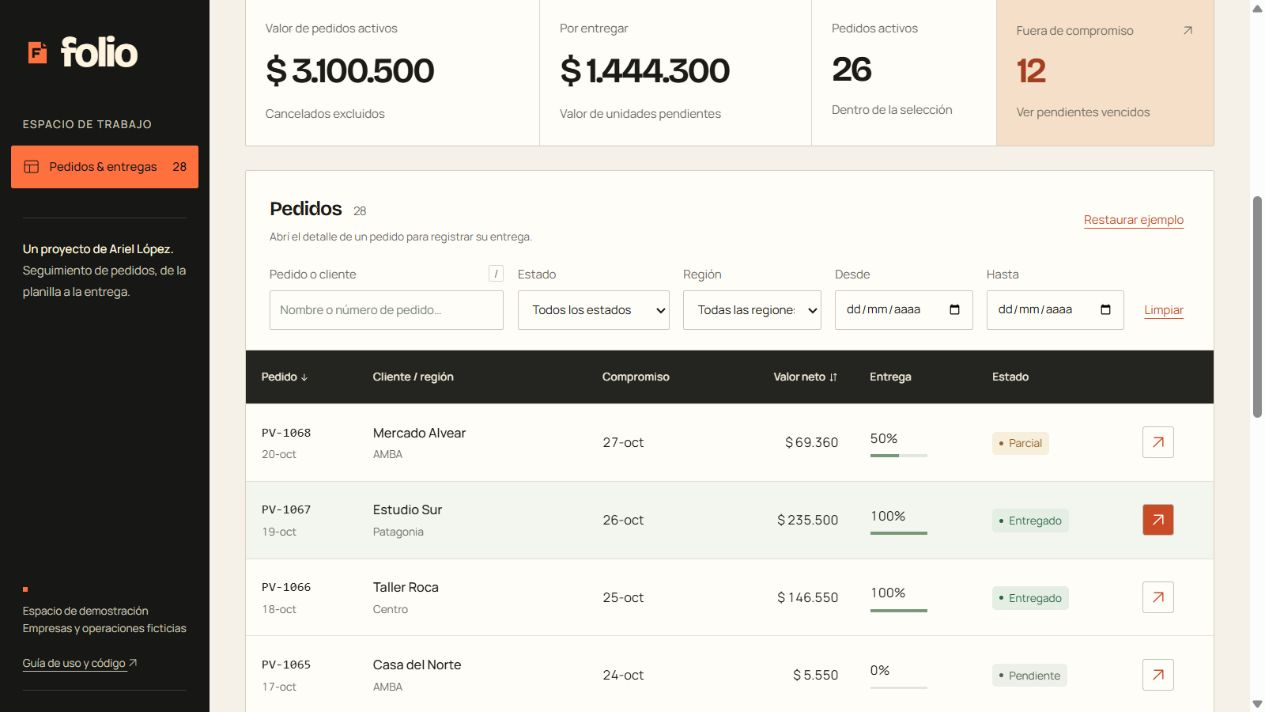
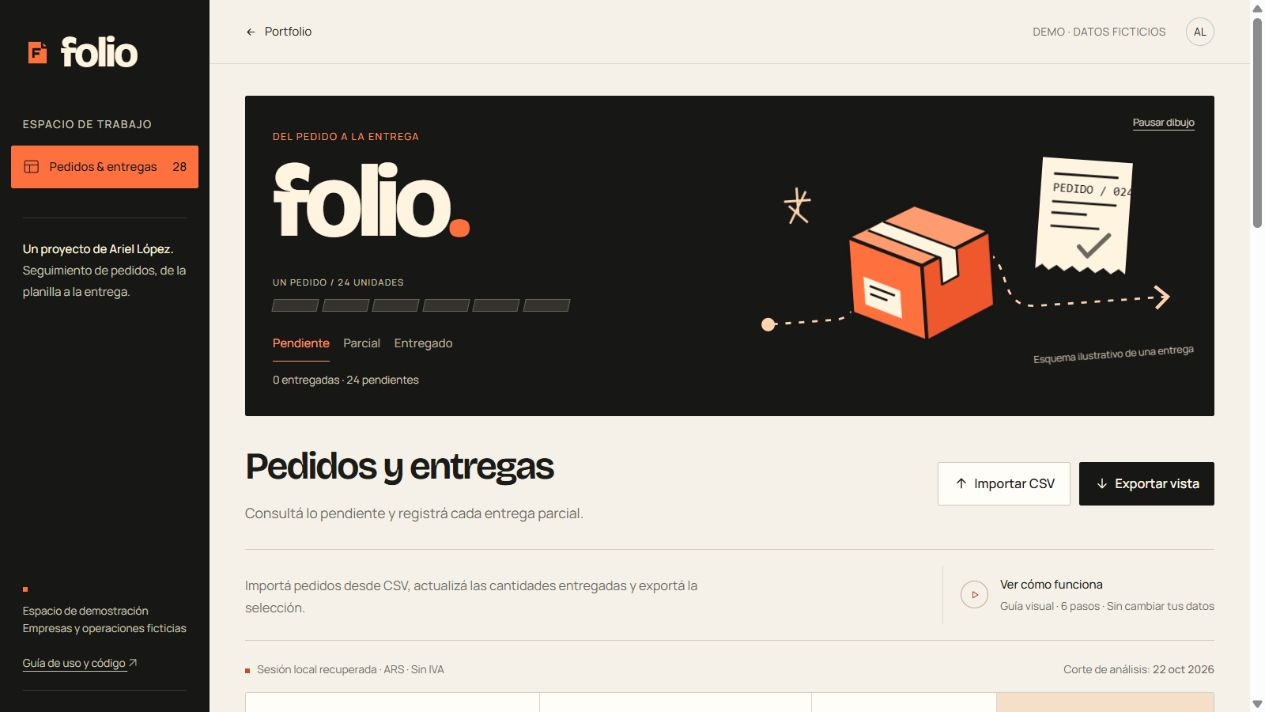
Add an interactive branded example to the app introduction

diff --git a/index.html b/index.html
@@ -19,11 +19,13 @@
     <link rel="stylesheet" href="style.css?v=20261101-type-1" />
     <link rel="stylesheet" href="tutorial.css?v=20261101-type-1" />
     <link rel="stylesheet" href="identity.css?v=20261101-type-1" />
-    <script type="module" src="src/app.js?v=20261101-identities-1"></script>
+    <script type="module" src="src/app.js?v=20261101-assembly-1"></script>
     <script type="module" src="src/tutorial.js?v=20261101-type-1"></script>
-    <link rel="stylesheet" href="direction.css?v=20261101-identities-1" />
+    <link rel="stylesheet" href="direction.css?v=20261101-assembly-1" />
     <link rel="stylesheet" href="video.css?v=20261101-type-1" />
-    <script type="module" src="src/brand-motion.js?v=20261101-identities-1"></script>
+    <script type="module" src="src/brand-motion.js?v=20261101-assembly-1"></script>
+    <link rel="stylesheet" href="brand-lab.css?v=20261101-assembly-1" />
+    <script type="module" src="src/brand-lab.js?v=20261101-assembly-1"></script>
   </head>
   <body>
     <a class="skip" href="#main">Saltar al contenido</a>
@@ -100,6 +102,18 @@
             <span class="brand-kicker">DEL PEDIDO A LA ENTREGA</span>
             <div class="brand-word" aria-hidden="true">
               foli<span class="letter-o">o</span><span class="brand-dot">.</span>
+            </div>
+            <div class="order-play" aria-label="Ejemplo de avance de una entrega">
+              <p class="play-kicker">UN PEDIDO / 24 UNIDADES</p>
+              <div class="delivery-track" aria-hidden="true">
+                <i></i><i></i><i></i><i></i><i></i><i></i>
+              </div>
+              <div class="delivery-steps" role="group" aria-label="Probar estados del pedido">
+                <button type="button" data-delivery="0" aria-pressed="true">Pendiente</button>
+                <button type="button" data-delivery="12" aria-pressed="false">Parcial</button>
+                <button type="button" data-delivery="24" aria-pressed="false">Entregado</button>
+              </div>
+              <p class="delivery-caption" aria-live="polite">0 entregadas · 24 pendientes</p>
             </div>
           </div>
           <figure class="brand-drawing">
@@ -182,7 +196,7 @@
                 <path d="M-12 0h24M0-12v24m-8-8 16 16m-16 0L8-8" />
               </g>
             </svg>
-            <figcaption>Esquema ilustrativo de una entrega</figcaption>
+            <figcaption>Pedido de ejemplo</figcaption>
           </figure>
           <button class="brand-motion-toggle" data-brand-motion aria-pressed="false" hidden>
             Pausar dibujo

diff --git a/brand-lab.css b/brand-lab.css
@@ -1,0 +1,97 @@
+.folio-brandboard {
+  grid-template-columns: minmax(0, 1fr) minmax(0, 1fr);
+  min-height: 250px;
+  gap: 24px;
+  padding: 28px;
+}
+.order-play {
+  margin-top: 24px;
+  max-width: 300px;
+}
+.play-kicker {
+  color: #d0c5b1;
+  font-size: 9px;
+  letter-spacing: 0.12em;
+}
+.delivery-track {
+  display: flex;
+  gap: 5px;
+  margin: 10px 0 14px;
+}
+.delivery-track i {
+  display: block;
+  flex: 1;
+  height: 13px;
+  background: #fff4df20;
+  border: 1px solid #fff4df40;
+  transform: skewX(-12deg);
+  transition:
+    background 0.25s,
+    transform 0.25s;
+}
+.delivery-track i.is-delivered {
+  background: #ff703f;
+  border-color: #ff703f;
+  transform: skewX(-12deg) translateY(-2px);
+}
+.delivery-steps {
+  display: flex;
+  gap: 14px;
+}
+.delivery-steps button {
+  padding: 6px 0;
+  min-height: 44px;
+  font:
+    500 12px Manrope,
+    Arial,
+    sans-serif;
+  color: #b2aa9c;
+  border: 0;
+  border-bottom: 1px solid transparent;
+  background: none;
+  cursor: pointer;
+}
+.delivery-steps button[aria-pressed='true'] {
+  color: #ff976d;
+  border-color: #ff976d;
+}
+.delivery-caption {
+  color: #cfc6b8;
+  font-size: 11px;
+  margin: 10px 0 0;
+}
+.folio-brandboard .brand-drawing {
+  transform: rotate(-4deg);
+  transition: transform 0.4s;
+}
+.folio-brandboard[data-delivery-state='complete'] .brand-drawing {
+  transform: rotate(2deg);
+}
+.folio-brandboard[data-delivery-state='complete'] .draw-check {
+  opacity: 1;
+}
+@media (max-width: 680px) {
+  .folio-brandboard {
+    grid-template-columns: 1fr;
+    gap: 20px;
+    padding: 24px;
+  }
+  .folio-brandboard .brand-drawing {
+    width: 75%;
+    justify-self: end;
+    margin-top: -10px;
+  }
+  .order-play {
+    max-width: none;
+  }
+}
+@media (prefers-reduced-motion: reduce) {
+  .delivery-track i,
+  .folio-brandboard .brand-drawing {
+    transition: none;
+  }
+}
+[data-animate='off'] .delivery-track i,
+[data-animate='off'] .brand-drawing {
+  transition: none;
+}

diff --git a/src/brand-lab.js b/src/brand-lab.js
@@ -1,0 +1,16 @@
+const lab = document.querySelector('.order-play');
+if (lab) {
+  const buttons = [...lab.querySelectorAll('[data-delivery]')];
+  const blocks = [...lab.querySelectorAll('.delivery-track i')];
+  const caption = lab.querySelector('.delivery-caption');
+  buttons.forEach((button) =>
+    button.addEventListener('click', () => {
+      const delivered = Number(button.dataset.delivery);
+      buttons.forEach((item) => item.setAttribute('aria-pressed', String(item === button)));
+      blocks.forEach((block, i) => block.classList.toggle('is-delivered', i < delivered / 4));
+      caption.textContent = `${delivered} entregadas · ${24 - delivered} pendientes`;
+      lab.closest('[data-brand-stage]').dataset.deliveryState =
+        delivered === 24 ? 'complete' : 'pending';
+    }),
+  );
+}

diff --git a/README.md b/README.md
@@ -191,3 +191,6 @@ Folio recupera verde salvia en la navegación y bandas de tabla, con fondo marfi
 Folio combina negro, naranja y papel claro. Bricolage Grotesque identifica la marca y los títulos; Manrope conserva la lectura de datos y controles. El símbolo del folio plegado y la ilustración de paquete/remito son SVG originales del proyecto (`assets/brand-mark.svg` y `assets/brand-art.svg`). Las fuentes se sirven localmente con licencias OFL (`assets/bricolage-OFL.txt` y `assets/manrope-OFL.txt`).
 
 El dibujo representa una entrega de forma ilustrativa; no muestra el estado de los pedidos. Se puede pausar con **Pausar dibujo**. El movimiento se detiene fuera de pantalla, al ocultar la pestaña o si el sistema solicita movimiento reducido. `src/brand-motion.js` administra solo esta presentación, separada de las reglas de pedidos.
+# Ejemplo interactivo de entrega
+
+La portada permite recorrer un pedido ficticio de 24 unidades entre Pendiente, Parcial y Entregado. La barra y el texto anuncian 0, 12 y 24 unidades entregadas. Es una demostración independiente: no modifica pedidos, importes ni almacenamiento. Los botones admiten teclado y los cambios se anuncian con `aria-live`. Las transiciones respetan movimiento reducido y la pausa del dibujo. Validado junto con las 26 pruebas del proyecto.
